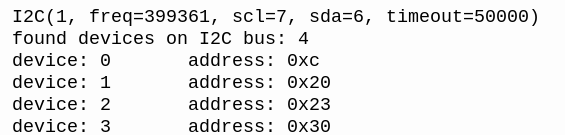
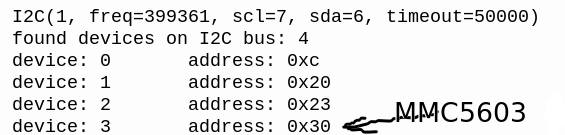
Второй

Changed region(s): [[0.6018, 0.7407, 0.9327, 1.0]]

diff --git a/main.py b/main.py
@@ -15,18 +15,10 @@ from sensor_pack.bus_service import I2cAdapter
 
 if __name__ == '__main__':
     # пожалуйста установите выводы scl и sda в конструкторе для вашей платы, иначе ничего не заработает!
-    # please set scl and sda pins for your board, otherwise nothing will work!
     # https://docs.micropython.org/en/latest/library/machine.I2C.html#machine-i2c
-    # i2c = I2C(0, scl=Pin(13), sda=Pin(12), freq=400_000) # для примера
-    # bus =  I2C(scl=Pin(4), sda=Pin(5), freq=100000)   # на esp8266    !
     # Внимание!!!
     # Замените id=1 на id=0, если пользуетесь первым портом I2C !!!
-    # Warning!!!
-    # Replace id=1 with id=0 if you are using the first I2C port !!!
-    # i2c = I2C(0, scl=Pin(13), sda=Pin(12), freq=400_000) # для примера
-
-    # i2c = I2C(id=1, scl=Pin(27), sda=Pin(26), freq=400_000)  # on Arduino Nano RP2040 Connect and Pico W tested!
-    i2c = I2C(id=1, scl=Pin(7), sda=Pin(6), freq=400_000)  # create I2C peripheral at frequency of 400kHz
+    i2c = I2C(id=1, scl=Pin(7), sda=Pin(6), freq=400_000)
     adapter = I2cAdapter(i2c)  # адаптер для стандартного доступа к шине
     delay_func = time.sleep_us  # микросекунды!!!
 

diff --git a/README.md b/README.md
@@ -1,17 +1,20 @@
-MicroPython module for control MMC5603 Geomagnetic Sensor.
+Модуль MicroPython для управления геомагнитным датчиком MMC5603.
 
-# I2C bus
-Just connect (VCC, GND, SDA, SCL) from your MMC5603 board to Arduino, ESP or any other board with MicroPython firmware.
+# Шина I2C
+Просто подключите контакты (VCC, GND, SDA, SCL) платы MMC5603 к соответствующим контактам Arduino, 
+ESP или любой другой платы с прошивкой MicroPython!
 
-# Supply
-Supply voltage MMC5603 3.3 Volts only (1.62V to 3.6V)!
+# Питание
+Напряжение питания MMC5603 3,3 В (от 1,62 В до 3,6 В)!
 
-# Upload
-Upload micropython firmware to the NANO(ESP, etc) board, and then files: main.py, mmc5603mod.py and sensor_pack folder. 
-Then open main.py in your IDE and run it.
+# Загрузка ПО в плату
+Загрузите прошивку micropython на плату NANO(ESP и т. д.), а затем файлы: main.py, mmc5603mod.py и папку Sensor_pack полностью!
+Затем откройте main.py в своей IDE и запустите его.
 
-# Pictures
-## MMC56x3 board view
-![alt text](https://github.com/octaprog7/QMC5883/blob/master/pics/board_5883.jpg)
-## IDE
-![alt text](https://github.com/octaprog7/QMC5883/blob/master/pics/ide_5883.png)
+## Адрес датчика
+![alt text](https://github.com/octaprog7/MMC5603/blob/master/pics/address.jpg)
+## Плата с датчиком MMC56x3
+![alt text](https://github.com/octaprog7/MMC5603/blob/master/pics/board_5603.jpg)
+## Среда разработки
+![alt text](https://github.com/octaprog7/MMC5603/blob/master/pics/ide_5603.png)
+
